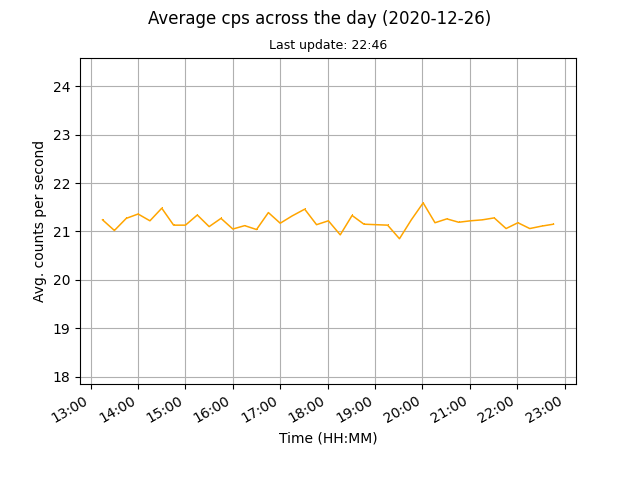
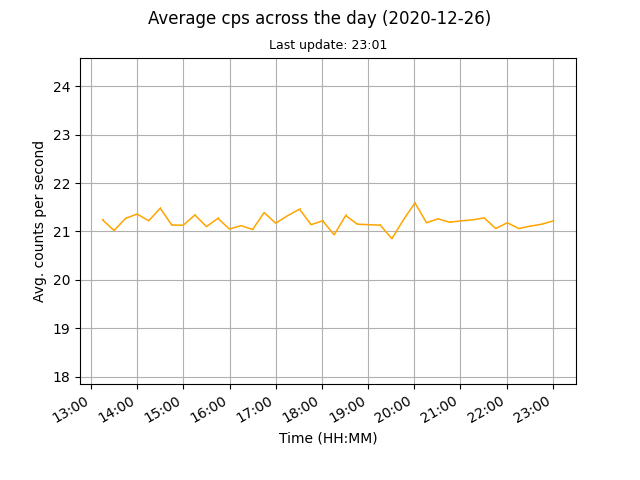
auto data update

diff --git a/docs/index.html b/docs/index.html
@@ -45,8 +45,8 @@
 	
 	<br>
 	
-	<p>Current counts per second (cps): 21.15</p>
-	<p>Last update: 2020-12-26, 22:47</p>
+	<p>Current counts per second (cps): 21.22</p>
+	<p>Last update: 2020-12-26, 23:02</p>
 
 	<p><a href="images/monthly.png"><img src="images/monthly.png" alt="Mothly avg cps data"></a><a href="images/daily.png"><img src="images/daily.png" alt="Daily avg cps data"></a></p>
 	
